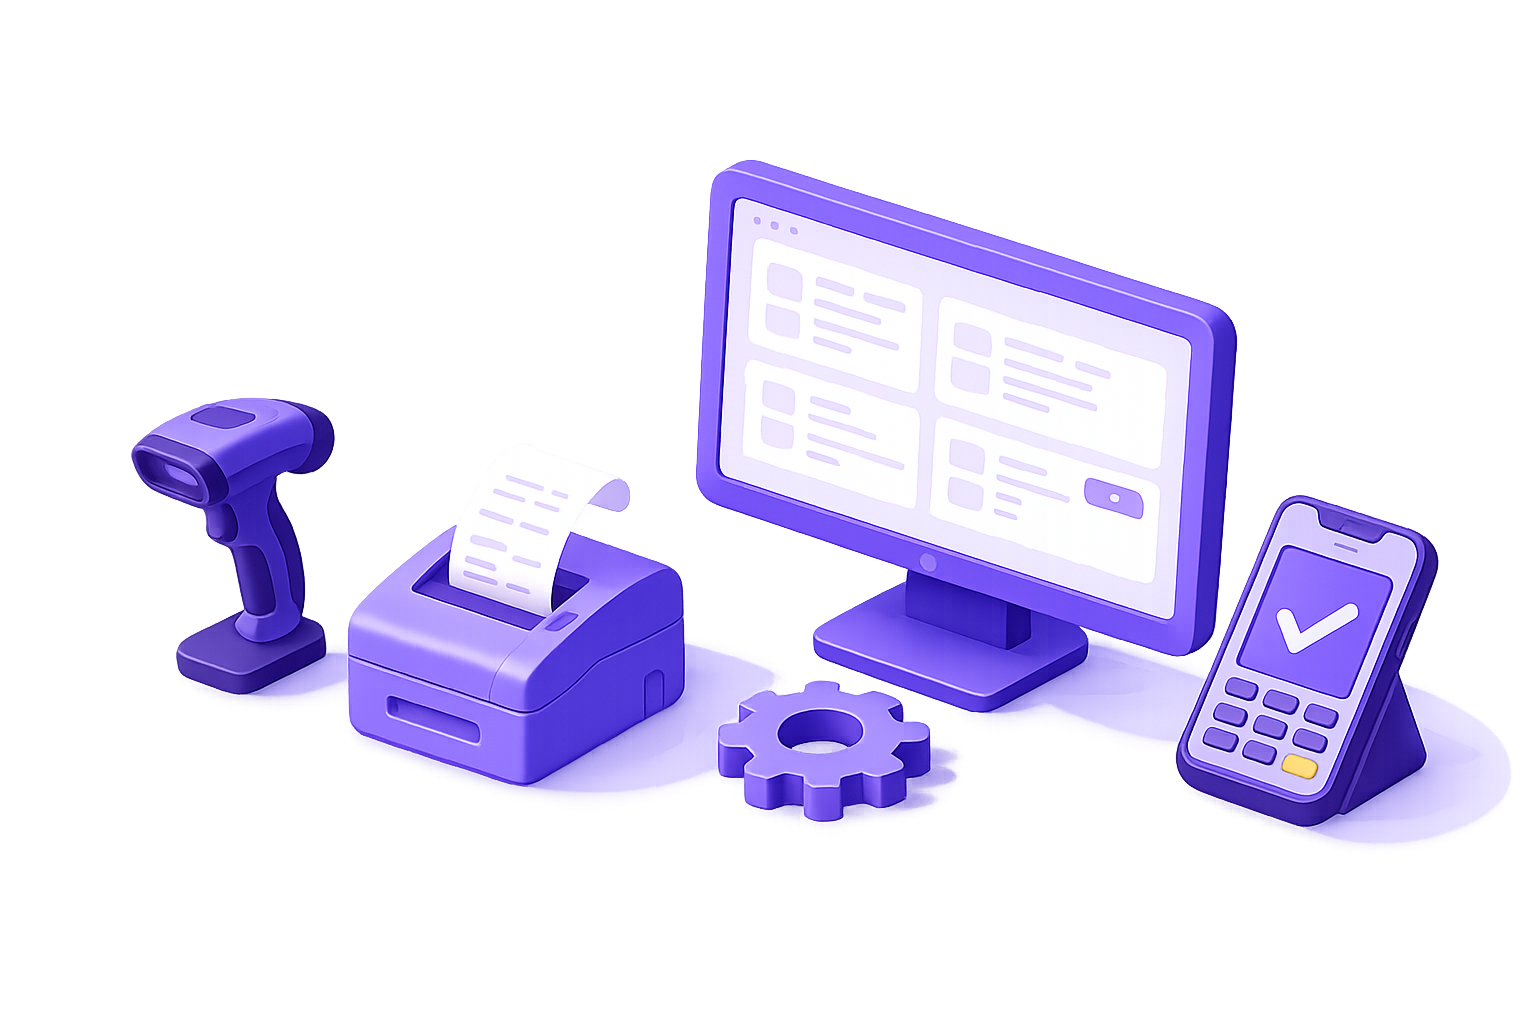
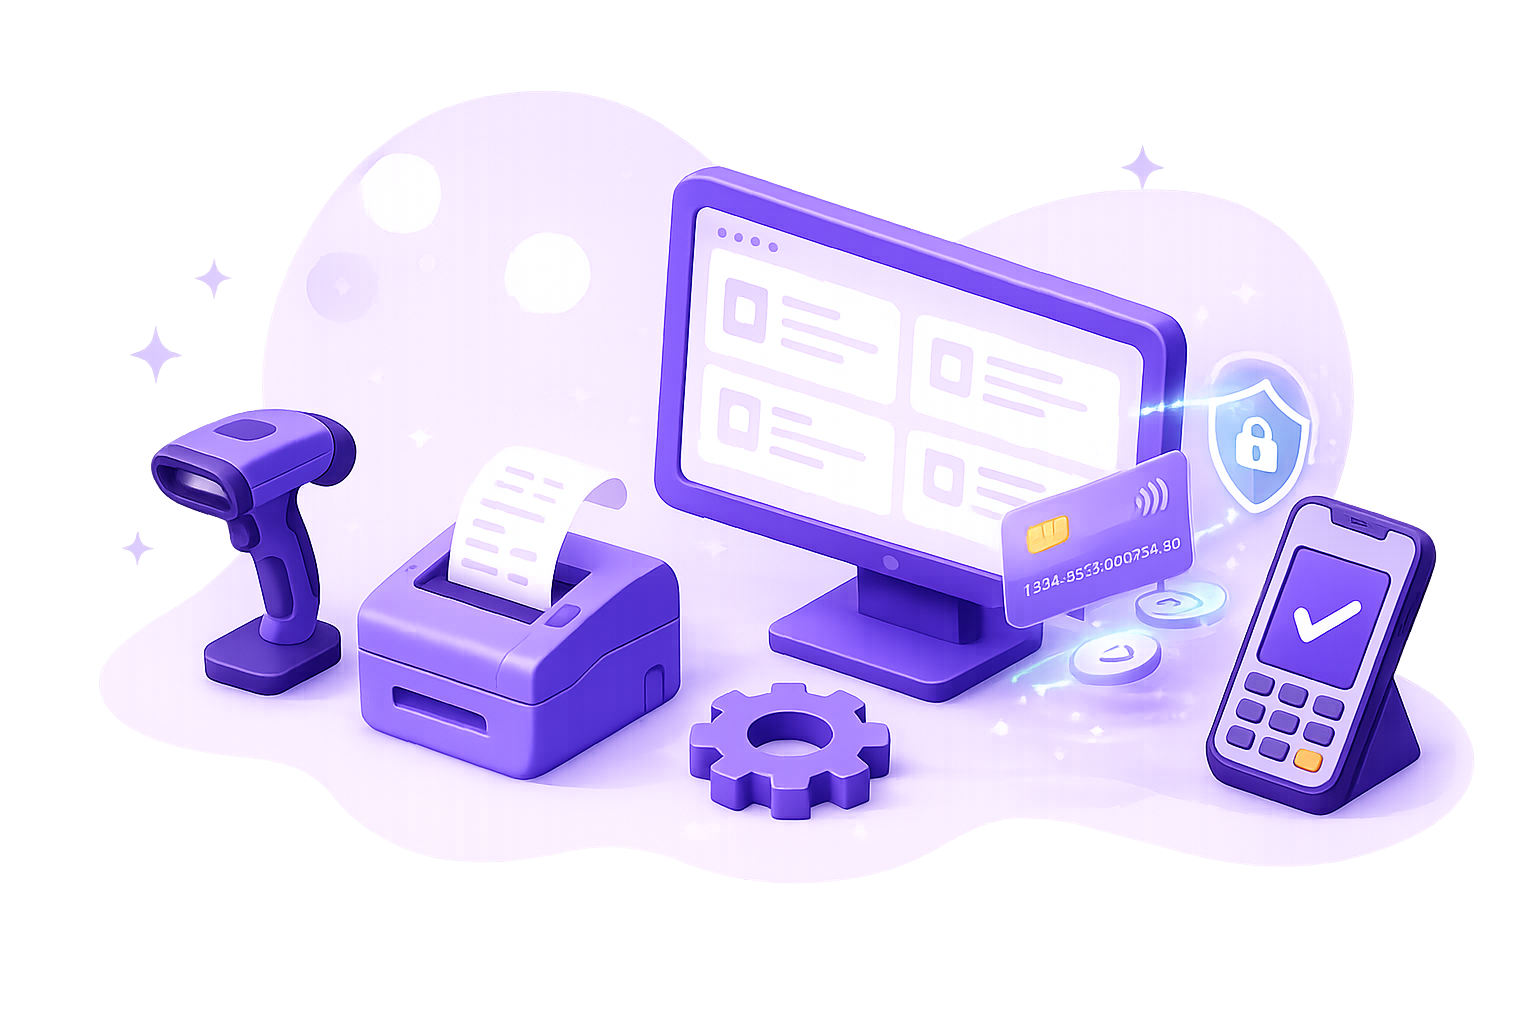
Ajuste diseño de productuos o catalogo de productos

diff --git a/src/app/pages/pos-ajustes/pos-ajustes.page.ts b/src/app/pages/pos-ajustes/pos-ajustes.page.ts
@@ -423,19 +423,21 @@ declare global {
                 </div>
               </article>
 
-              <article class="station-card station-card--efactura">
-                <header class="station-card__head">
-                  <span class="station-card__icon station-card__icon--amber" aria-hidden="true">
-                    <svg width="18" height="18" viewBox="0 0 24 24" fill="none">
-                      <path d="M12 8v5M12 16h.01" stroke="currentColor" stroke-width="1.8" stroke-linecap="round" />
-                      <circle cx="12" cy="12" r="8" stroke="currentColor" stroke-width="1.6" />
-                    </svg>
-                  </span>
-                  <span class="station-card__titles station-card__titles--inline">
-                    <strong>Integración eFactura</strong>
-                    <span class="station-card__badge" [class.station-card__badge--ok]="efacturaIntegrationReady()">
-                      {{ efacturaIntegrationReady() ? 'Lista' : 'Pendiente' }}
+              <article
+                class="station-card station-card--efactura"
+                [class.station-card--efactura-pending]="!efacturaIntegrationReady()">
+                <header class="station-card__head station-card__head--efactura">
+                  <span class="station-card__head-main">
+                    <span class="station-card__icon station-card__icon--amber" aria-hidden="true">
+                      <svg width="18" height="18" viewBox="0 0 24 24" fill="none">
+                        <path d="M12 4.5L19.5 18H4.5L12 4.5z" stroke="currentColor" stroke-width="1.6" stroke-linejoin="round" />
+                        <path d="M12 9.5v4M12 16h.01" stroke="currentColor" stroke-width="1.8" stroke-linecap="round" />
+                      </svg>
                     </span>
+                    <strong class="station-card__title-plain">Integración eFactura</strong>
+                  </span>
+                  <span class="station-card__badge" [class.station-card__badge--ok]="efacturaIntegrationReady()">
+                    {{ efacturaIntegrationReady() ? 'Lista' : 'Pendiente' }}
                   </span>
                 </header>
                 <div class="station-card__body station-card__body--center">
@@ -443,7 +445,7 @@ declare global {
                     <p class="station-card__copy">Punto de emisión disponible para operación fiscal en esta estación.</p>
                   } @else {
                     <p class="station-card__copy">
-                      No hay puntos de emisión cargados. Configure sucursal y emisión local o conecte eFactura.
+                      No se encontraron puntos de emisión configurados para esta estación.
                     </p>
                     <button type="button" class="station-card__cta pos-focus-ring" (click)="openBusinessTab()">
                       Configurar ahora
@@ -461,10 +463,9 @@ declare global {
                   </span>
                   <span class="station-card__titles">
                     <strong>Experiencia de venta</strong>
-                    <small>Comportamiento del flujo de cobro</small>
                   </span>
                 </header>
-                <div class="station-card__body">
+                <div class="station-card__body station-card__body--compact">
                   <div class="station-toggle-row">
                     <span class="station-toggle-row__copy">
                       <strong>Sonido al agregar productos</strong>
@@ -513,8 +514,8 @@ declare global {
                     <span class="station-card__icon station-card__icon--purple" aria-hidden="true">
                       <svg width="18" height="18" viewBox="0 0 24 24" fill="none">
                         <circle cx="12" cy="12" r="8" stroke="currentColor" stroke-width="1.6" />
-                        <circle cx="12" cy="12" r="3" stroke="currentColor" stroke-width="1.6" />
-                        <path d="M12 4v2M12 18v2M4 12h2M18 12h2" stroke="currentColor" stroke-width="1.6" stroke-linecap="round" />
+                        <circle cx="12" cy="12" r="4" stroke="currentColor" stroke-width="1.6" />
+                        <circle cx="12" cy="12" r="1.2" fill="currentColor" />
                       </svg>
                     </span>
                     <span class="station-card__titles">
@@ -546,7 +547,8 @@ declare global {
                 <header class="station-card__head">
                   <span class="station-card__icon station-card__icon--green" aria-hidden="true">
                     <svg width="18" height="18" viewBox="0 0 24 24" fill="none">
-                      <path d="M12 3v18M8.5 7.5C8.5 5.8 10 4.5 12 4.5s3.5 1.3 3.5 3c0 2.2-3.5 2.5-3.5 5M12 17.5h.01" stroke="currentColor" stroke-width="1.6" stroke-linecap="round" />
+                      <circle cx="12" cy="12" r="8" stroke="currentColor" stroke-width="1.6" />
+                      <path d="M12 7.5v8M9.5 10.5c0-1.2 1.1-2 2.5-2s2.5.8 2.5 2c0 1.6-2.5 1.8-2.5 3.2M12 16.8h.01" stroke="currentColor" stroke-width="1.5" stroke-linecap="round" />
                     </svg>
                   </span>
                   <span class="station-card__titles">
@@ -1489,7 +1491,7 @@ declare global {
             <span>
               <strong>Restablecer configuración</strong>
               @if (activeTab() === 'station') {
-                <small>Volver a valores por defecto</small>
+                <small>Se perderán los cambios no guardados</small>
               }
             </span>
           </button>
@@ -1499,7 +1501,10 @@ declare global {
                 <path d="M4 12a8 8 0 0113.8-5.6M20 4v5h-5" stroke="currentColor" stroke-width="1.7" stroke-linecap="round" stroke-linejoin="round" />
                 <path d="M20 12a8 8 0 01-13.8 5.6M4 20v-5h5" stroke="currentColor" stroke-width="1.7" stroke-linecap="round" stroke-linejoin="round" />
               </svg>
-              Tienes cambios sin guardar
+              <span>
+                <strong>Tienes cambios sin guardar</strong>
+                <small>Recuerda guardar para aplicar tu configuración.</small>
+              </span>
             </p>
           }
           <button
@@ -1692,39 +1697,48 @@ declare global {
       white-space: nowrap;
     }
     .station-hero {
+      position: relative;
       display: flex;
-      align-items: stretch;
+      align-items: flex-end;
       justify-content: space-between;
-      gap: 1rem;
+      gap: 1.25rem;
       margin-bottom: 0.9rem;
-      padding: 1rem 1.1rem;
+      padding: 1.2rem 1.15rem 0.65rem;
       border: 1px solid var(--pos-border);
       border-radius: 5px;
       background: linear-gradient(135deg, var(--pos-elevated), var(--pos-surface-2));
       box-shadow: var(--pos-shadow-soft);
+      overflow: hidden;
+      min-height: 9.25rem;
     }
     .station-hero__copy {
       flex: 1;
       min-width: 0;
+      align-self: flex-start;
+      padding-bottom: 0.55rem;
+    }
+    .station-hero .eyebrow {
+      margin-bottom: 0.35rem;
     }
     .station-hero h1 {
-      margin: 0;
-      font-size: 1.24rem;
+      margin: 0.2rem 0 0;
+      font-size: 1.38rem;
       font-weight: 900;
-      line-height: 1.15;
+      line-height: 1.28;
+      letter-spacing: -0.015em;
     }
     .station-hero p {
-      margin: 0.35rem 0 0;
-      max-width: 36rem;
+      margin: 0.55rem 0 0;
+      max-width: 34rem;
       color: var(--pos-muted);
-      font-size: 0.82rem;
-      line-height: 1.45;
+      font-size: 0.84rem;
+      line-height: 1.55;
     }
     .station-hero__status {
       display: flex;
       flex-wrap: wrap;
-      gap: 0.45rem;
-      margin-top: 0.7rem;
+      gap: 0.5rem;
+      margin-top: 0.95rem;
     }
     .station-pill {
       display: inline-flex;
@@ -1753,17 +1767,21 @@ declare global {
       color: var(--pos-muted);
     }
     .station-hero__art {
-      flex: 0 0 min(42%, 15.5rem);
+      flex: 0 0 min(46%, 20rem);
       display: flex;
-      align-items: center;
-      justify-content: center;
+      align-items: flex-end;
+      justify-content: flex-end;
+      margin-right: -0.35rem;
+      margin-bottom: -1.65rem;
+      pointer-events: none;
     }
     .station-hero__img {
       display: block;
-      width: 100%;
-      max-width: 15.5rem;
+      width: 118%;
+      max-width: 21rem;
       height: auto;
       object-fit: contain;
+      object-position: right bottom;
     }
     .station-board {
       display: grid;
@@ -1790,6 +1808,10 @@ declare global {
       grid-column: 2;
       grid-row: 1;
     }
+    .station-card--efactura-pending {
+      background: linear-gradient(180deg, #fffbeb 0%, #fef8ee 100%);
+      border-color: color-mix(in srgb, #fbbf24 28%, var(--pos-border));
+    }
     .station-card--experience {
       grid-column: 3;
       grid-row: 1 / span 2;
@@ -1807,8 +1829,15 @@ declare global {
       align-items: center;
       gap: 0.6rem;
     }
-    .station-card__head--split {
+    .station-card__head--split,
+    .station-card__head--efactura {
       justify-content: space-between;
+    }
+    .station-card__title-plain {
+      font-size: 0.84rem;
+      font-weight: 850;
+      color: var(--pos-text);
+      line-height: 1.2;
     }
     .station-card__head-main {
       display: flex;
@@ -1862,14 +1891,13 @@ declare global {
       line-height: 1.3;
     }
     .station-card__badge {
-      justify-self: start;
-      margin-top: 0.12rem;
-      padding: 0.14rem 0.42rem;
+      flex-shrink: 0;
+      padding: 0.18rem 0.48rem;
       border-radius: 999px;
-      border: 1px solid color-mix(in srgb, #f59e0b 30%, var(--pos-border));
-      background: color-mix(in srgb, #f59e0b 12%, var(--pos-elevated));
-      color: #b45309;
-      font-size: 0.62rem;
+      border: 1px solid color-mix(in srgb, #f59e0b 34%, var(--pos-border));
+      background: color-mix(in srgb, #f59e0b 16%, #fff);
+      color: #c2410c;
+      font-size: 0.64rem;
       font-weight: 850;
     }
     .station-card__badge--ok {
@@ -1887,6 +1915,19 @@ declare global {
       text-align: center;
       min-height: 6.5rem;
     }
+    .station-card__body--compact {
+      gap: 0.15rem;
+    }
+    .station-card--experience .station-toggle-row {
+      padding: 0.3rem 0;
+    }
+    .station-card--experience .station-toggle-row__copy {
+      gap: 0.06rem;
+    }
+    .station-card--experience .station-toggle-row__copy small {
+      font-size: 0.66rem;
+      line-height: 1.28;
+    }
     .station-card__copy {
       margin: 0;
       color: var(--pos-muted);
@@ -1894,16 +1935,21 @@ declare global {
       line-height: 1.45;
     }
     .station-card__cta {
-      justify-self: center;
-      margin-top: 0.15rem;
-      padding: 0.42rem 0.85rem;
-      border: 1px solid color-mix(in srgb, #f59e0b 40%, var(--pos-border));
+      width: 100%;
+      margin-top: 0.35rem;
+      padding: 0.5rem 0.85rem;
+      border: 1px solid color-mix(in srgb, #f59e0b 55%, #fcd34d);
       border-radius: 5px;
-      background: var(--pos-elevated);
-      color: #b45309;
-      font-size: 0.74rem;
+      background: #fff;
+      color: #ea580c;
+      font-size: 0.76rem;
       font-weight: 800;
       cursor: pointer;
+      box-shadow: 0 1px 0 color-mix(in srgb, #f59e0b 12%, transparent);
+    }
+    .station-card--efactura-pending .station-card__cta:hover {
+      background: #fffdf8;
+      border-color: #f59e0b;
     }
     .station-field {
       display: grid;
@@ -1942,8 +1988,8 @@ declare global {
       align-items: center;
       justify-content: space-between;
       gap: 0.65rem;
-      padding: 0.55rem 0;
-      border-top: 1px solid color-mix(in srgb, var(--pos-border) 80%, transparent);
+      padding: 0.42rem 0;
+      border-top: 1px solid color-mix(in srgb, var(--pos-border) 70%, transparent);
     }
     .station-card__body > .station-toggle-row:first-child {
       border-top: none;
@@ -2009,15 +2055,20 @@ declare global {
     .station-chip {
       display: inline-flex;
       align-items: center;
-      gap: 0.35rem;
-      width: fit-content;
-      padding: 0.3rem 0.55rem;
-      border-radius: 999px;
-      border: 1px solid color-mix(in srgb, var(--pos-accent) 24%, var(--pos-border));
-      background: color-mix(in srgb, var(--pos-accent) 9%, var(--pos-elevated));
+      justify-content: center;
+      gap: 0.38rem;
+      width: 100%;
+      margin-top: 0.2rem;
+      padding: 0.42rem 0.65rem;
+      border-radius: 5px;
+      border: 1px solid color-mix(in srgb, var(--pos-accent) 28%, var(--pos-border));
+      background: color-mix(in srgb, var(--pos-accent) 12%, var(--pos-elevated));
       color: var(--pos-accent-hover);
-      font-size: 0.68rem;
-      font-weight: 800;
+      font-size: 0.7rem;
+      font-weight: 850;
+    }
+    .station-card--upsell .station-card__body {
+      gap: 0.42rem;
     }
     .section-head {
       margin-bottom: 0.75rem;
@@ -2946,16 +2997,37 @@ declare global {
     .settings-footer__pending {
       display: inline-flex;
       align-items: center;
-      justify-content: center;
-      gap: 0.35rem;
+      justify-content: flex-start;
+      gap: 0.5rem;
       margin: 0;
+      padding: 0.55rem 0.8rem;
+      border: 1px solid var(--pos-border);
+      border-radius: 5px;
+      background: color-mix(in srgb, var(--pos-accent) 5%, var(--pos-bg));
       color: var(--pos-muted);
       font-size: 0.76rem;
       font-weight: 700;
     }
+    .settings-footer__pending span {
+      display: grid;
+      gap: 0.06rem;
+      text-align: left;
+    }
+    .settings-footer__pending strong {
+      color: var(--pos-text);
+      font-size: 0.78rem;
+      font-weight: 800;
+    }
+    .settings-footer__pending small {
+      font-size: 0.66rem;
+      font-weight: 650;
+      color: var(--pos-muted);
+    }
     .settings-footer__save--rich {
-      min-height: 2.85rem;
-      padding: 0.45rem 1rem;
+      min-height: 2.95rem;
+      padding: 0.5rem 1.1rem;
+      border-radius: 5px;
+      box-shadow: 0 10px 24px -16px color-mix(in srgb, var(--pos-accent) 55%, transparent);
     }
     @media (max-width: 840px) {
       .settings {
@@ -2982,6 +3054,12 @@ declare global {
       .station-hero__art {
         flex-basis: auto;
         width: 100%;
+        margin-bottom: -0.75rem;
+        justify-content: center;
+      }
+      .station-hero__img {
+        width: 100%;
+        max-width: 16rem;
       }
       .station-board {
         grid-template-columns: 1fr;